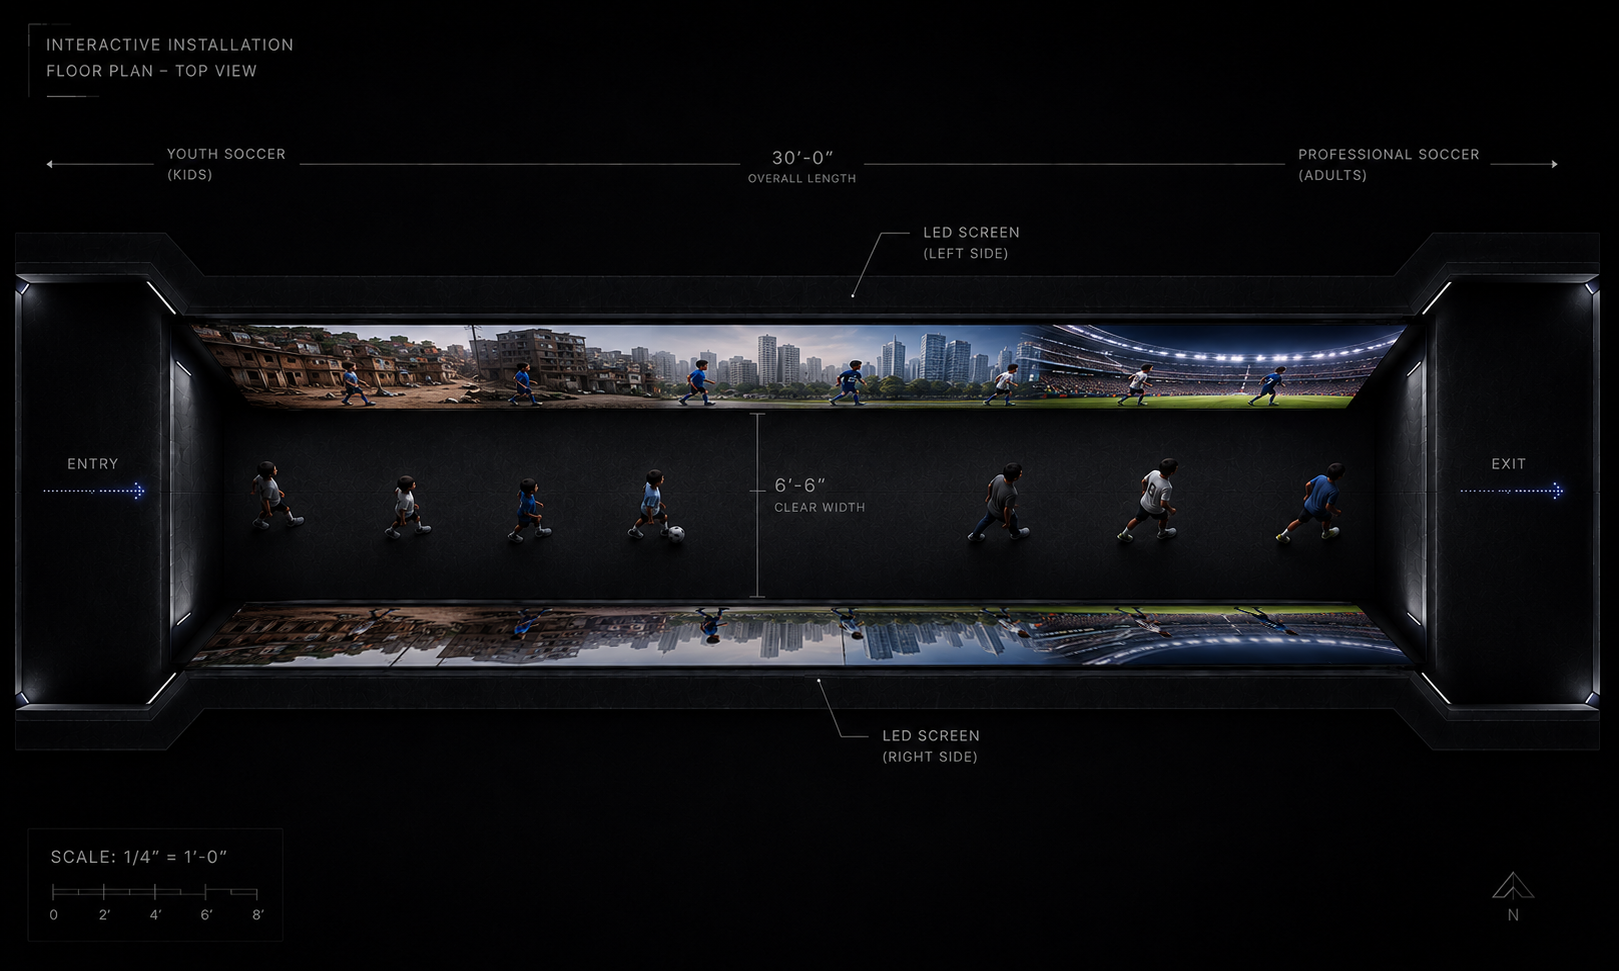
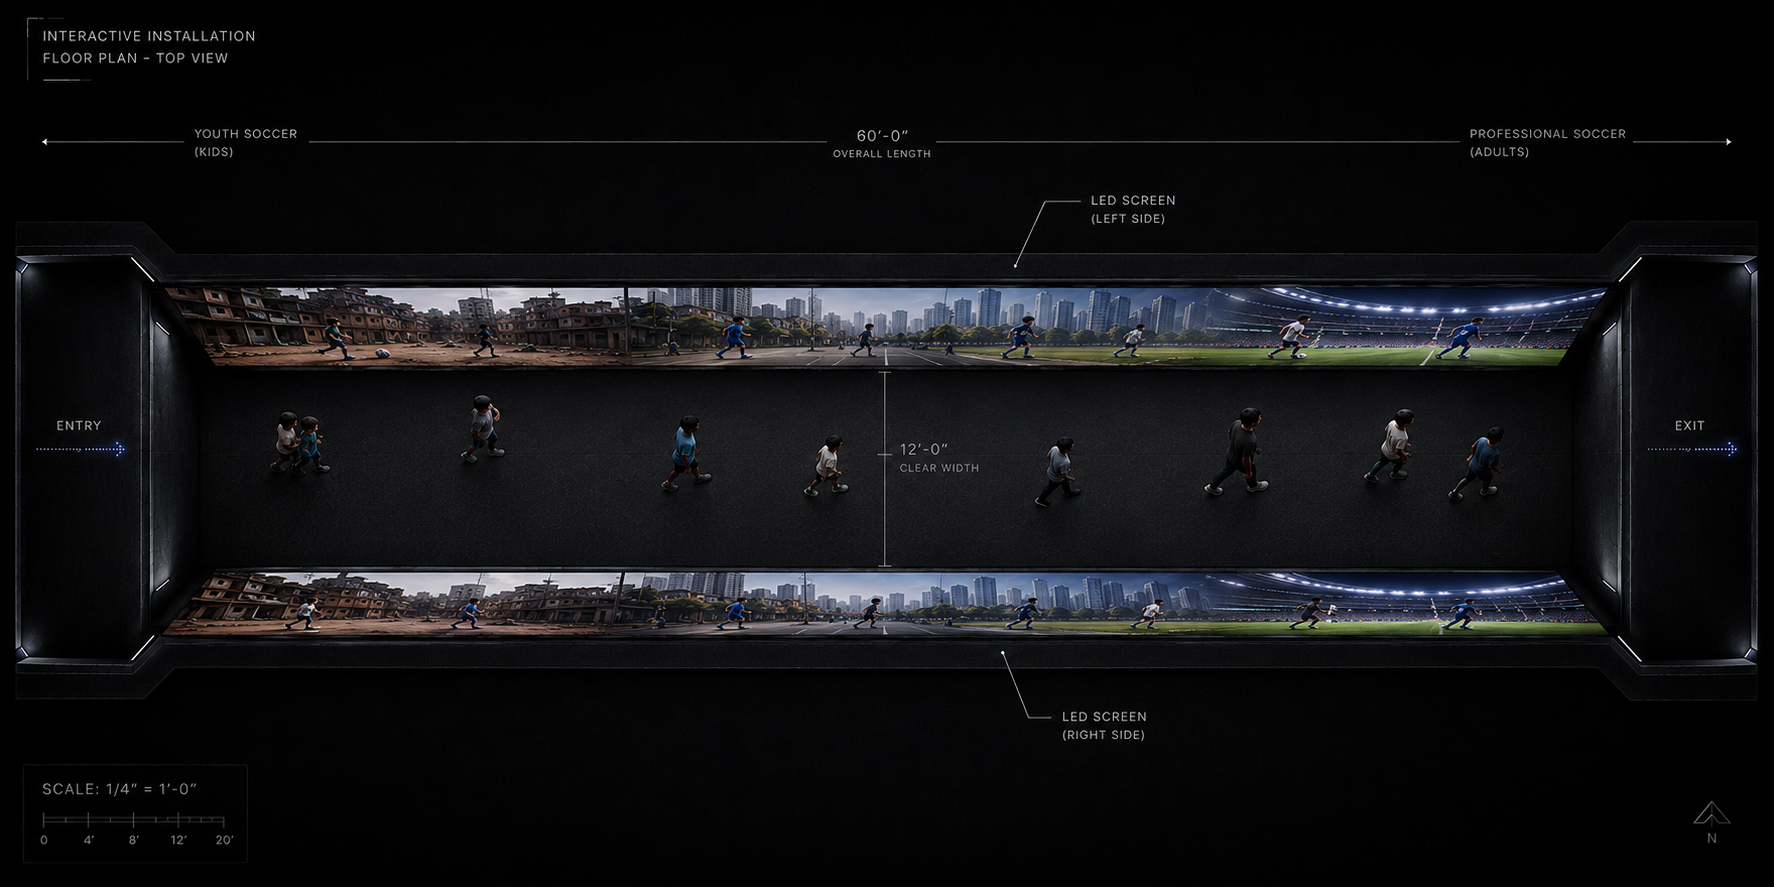
update floor plan to image #17, dimensions 60'x12' (was 30'x6'-6")

diff --git a/index.html b/index.html
@@ -181,8 +181,8 @@
       A walk-through experience for the FIFA museum. <b>Walls and floor in LED</b>, no ceiling. Visitors move through stories of players from across the world: where they grew up, who they became, the journey between. <b>Three environments</b> for Alpha Phase. Format is rights-flexible, so the concept works with named legends and with composite players.
     </p>
     <div class="scope">
-      <div><div class="k">Length</div><div class="v">30'-0"</div></div>
-      <div><div class="k">Clear width</div><div class="v">6'-6"</div></div>
+      <div><div class="k">Length</div><div class="v">60'-0"</div></div>
+      <div><div class="k">Clear width</div><div class="v">12'-0"</div></div>
       <div><div class="k">LED</div><div class="v">Walls <small>+ floor</small></div></div>
       <div><div class="k">Alpha Phase</div><div class="v">3 <small>environments</small></div></div>
     </div>
@@ -197,7 +197,7 @@
         <div class="section-num">§ 01 · INSTALLATION</div>
         <h2 class="section-title">Floor plan.</h2>
       </div>
-      <p class="section-lede">Top view. Thirty feet long, six feet six inches clear width. LED on both side walls and on the floor. Visitors enter on one end and exit on the other, watching one player's history unfold across the length of the room.</p>
+      <p class="section-lede">Top view. Sixty feet long, twelve feet clear width. LED on both side walls and on the floor. Visitors enter on one end and exit on the other, watching one player's history unfold across the length of the room.</p>
     </div>
 
     <div class="visual">
@@ -209,8 +209,8 @@
     </div>
 
     <div class="specs">
-      <div><div class="k">Overall length</div><div class="v">30'-0"</div></div>
-      <div><div class="k">Clear width</div><div class="v">6'-6"</div></div>
+      <div><div class="k">Overall length</div><div class="v">60'-0"</div></div>
+      <div><div class="k">Clear width</div><div class="v">12'-0"</div></div>
       <div><div class="k">LED surfaces</div><div class="v">Walls + floor</div></div>
       <div><div class="k">Direction</div><div class="v">Linear walk-through</div></div>
     </div>
@@ -233,12 +233,12 @@
     </div>
     <div class="visual-caption">
       <span><b>Origin story</b> · childhood to Champions across one wall</span>
-      <span>One player · one history · 30 feet</span>
+      <span>One player · one history · 60 feet</span>
     </div>
 
     <div class="protag-grid" style="margin-top:36px">
       <div class="protag-text">
-        <p>Eighteen years of history compressed into thirty feet.</p>
+        <p>Eighteen years of history compressed into sixty feet.</p>
       </div>
       <div class="protag-text">
         <p>The wall is the timeline. Same hero, traced from where they started to where they ended up. The floor pulls you forward through the years, and the story accumulates as you walk.</p>
